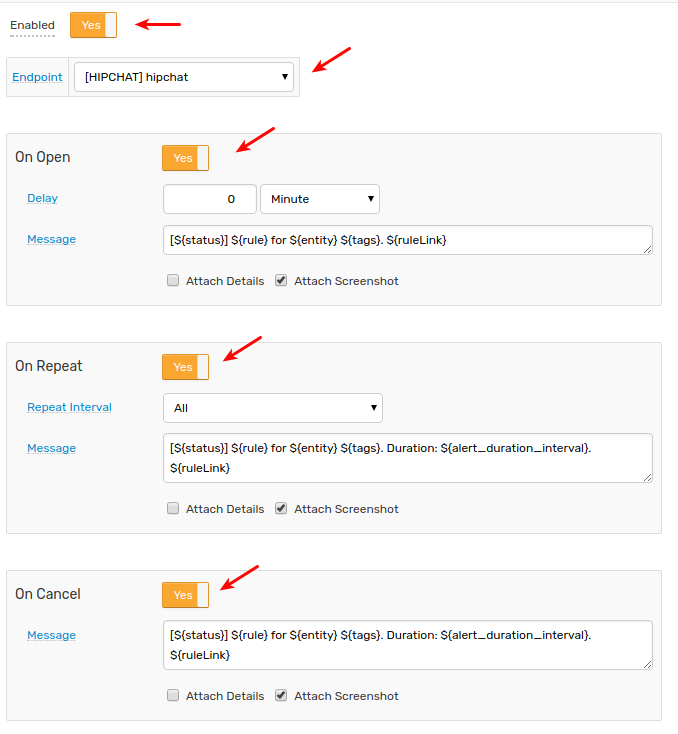
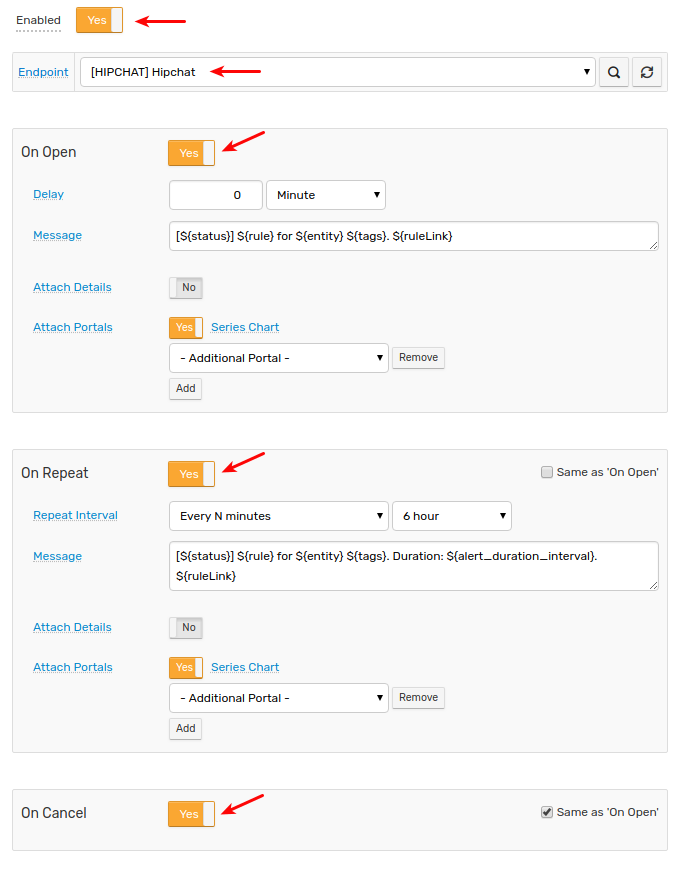
Notifications updates (#428)
* telegram.md

* slack.md

* discord.md

* hipchat.md

* eng fix

* eng fix

diff --git a/rule-engine/notifications/telegram.md b/rule-engine/notifications/telegram.md
@@ -116,25 +116,22 @@ Lookup the chat id as described below and copy the chat id for future reference.
 ## Configure Web Notification in ATSD
 
 * Open **Alerts > Web Notifications** page.
-* Click on an existing `TELEGRAM` template, or click the **Create** button below and switch the form to `TELEGRAM` type.
-* Enter the `BOT_TOKEN` value into the `bot_id` field.
-* Enter the chat id into the `chat_id` field.
+* Click on an existing `TELEGRAM` template, or click the **Create** button below and select the `TELEGRAM` type.
+* Specify the unique `Name` of the notification.
+
+    ![](images/telegram_2.png)
+    
+* Enter the `BOT_TOKEN` value into the `Bot ID` field.
+* Enter the chat id into the `Chat ID` field.
+* Select **Test Portal** to verify screenshot delivery.
 
   ![](images/telegram_config.png)
 
-* Click **Test**.
+* Click **Test**.    
 
-   ![](images/test_message.png)
+  ![](images/telegram_1.png)
 
-* Select **Test Portal** to verify screenshot delivery.
-
-   ![](images/new_test_portal.png)   
-
-* Click **Send Screenshot**.
-
-   ![](images/send_screen.png)
-
-* If tests are passing OK, check **Enable**, click **Save**.
+* If test is passing OK, check **Enable**, click **Save**.
 
 ## Proxy Settings
 
@@ -158,6 +155,15 @@ NGINX API Gateway Path for Telegram:
 |Parse Mode|Send [Markdown](https://core.telegram.org/bots/api#markdown-style) or [HTML](https://core.telegram.org/bots/api#html-style) if you want show bold, italic, fixed-width text or inline URLs in your message.|
 |Disable Notifications|Sends the message silently. Users will receive a notification with no sound.|
 |Disable Web Page Preview|Disables link previews for links in this message.|
+|Details Table Format|The default format for the alerts detail table.|
+|Add Links to Portals|Send a follow up message with chart links after each message containing portal screenshots.|
+|Receive Updates|Poll for messages addressed to the bot user and process them in ATSD as messages.|
+
+## Reacting to Bot Messages
+
+The bot account can be used both to deliver notifications to end users, as well as to react to messages addressed to the bot itself. 
+
+In order to receive incoming messages, configure an [outgoing webhook](outgoing-webhook-telegram.md) or set **Receive Updates** setting to 'yes'. The [webhook](outgoing-webhook-telegram.md) integration requires ATSD server to be reachable from Telegram API servers.
 
 ## Testing Notification Rule
 

diff --git a/rule-engine/notifications/hipchat.md b/rule-engine/notifications/hipchat.md
@@ -83,25 +83,23 @@ In addition to roomId, you can use room name, for example `test-axibase`, when s
 ## Create HipChat Notification in ATSD
 
 * Open the **Alerts > Web Notifications** page.
-* Click on an existing `HIPCHAT` template, or click the **Create** button and switch the type to `HIPCHAT`.
+* Click on an existing `HIPCHAT` template, or click the **Create** button and select the `HIPCHAT`type.
+* Specify the unique `Name` of the notification.
+
+    ![](images/hipchat_1.png) 
+    
+* Specify the `Endpoint URL`.
 * Copy the `Token` from the HipChat Data Center client into the `Auth Token` field in the configuration form.
 * Copy the room Id or room name from the HipChat Data Center client into the `Room ID` field in the configuration form.
+* Select **Test Portal** to test the screenshot.
 
     ![](images/hipchat_settings.png)
 
 * Click **Test**.
 
-   ![](images/hipchat_hello_from_atsd.png)
+   ![](images/hipchat_2.png)
 
-* Select **Test Portal** to test the screenshot.
-
-   ![](images/new_test_portal.png)   
-
-* Click **Send Screenshot**.
-
-   ![](images/hipchat_send_screenshot.png)
-
-* If tests are OK, set the status to **Enabled** and click **Save**.  
+* If test is OK, set the status to **Enabled** and click **Save**.  
 
 ## Proxy Settings
 
@@ -117,6 +115,7 @@ If the HipChat API server is not directly accessible from the ATSD server, open 
 |Message|Message text to be sent. This field should be left blank so it can be customized in the rule editor.|
 |Message Format|Change how messages are formatted. See [message_format](https://www.hipchat.com/docs/apiv2/method/send_room_notification). To ensure that the references returned by the [link placeholders](../links.md#reference) and the [link functions](../functions-link.md#reference) are automatically inlined, specify `html` format.|
 |Notify|Notify users when bot sends a message.|
+|Add Links to Portals|Send a follow up message with chart links after each message containing portal screenshots.|
 
 ## Testing Notification
 
@@ -155,6 +154,6 @@ If the HipChat API server is not directly accessible from the ATSD server, open 
 
    ![](images/hipchat_test_1.png)
 
-* Critital alert:
+* Critical alert:
 
    ![](images/hipchat_test_2.png)

diff --git a/rule-engine/notifications/discord.md b/rule-engine/notifications/discord.md
@@ -61,25 +61,22 @@ To join a server, the user should click **Create new server**, select **Join** a
 ## Create Discord Notification in ATSD
 
 * Open the **Alerts > Web Notifications** page.
-* Click on an existing `DISCORD` template, or click the **Create** button and switch the type to `DISCORD`.
+* Click on an existing `DISCORD` template, or click the **Create** button and select the `DISCORD` type.
+* Specify the unique `Name` of the notification.
+
+    ![](images/discord_1.png) 
+    
 * Copy the `Webhook URL` from the Discord client into the `Webhook URL` field in the configuration form.
 * The `Webhook ID` and `Webhook Token` will be filled automatically when you finish editing the `Webhook URL` field.
+* Select **Test Portal** to test the screenshot.
 
     ![](images/discord_settings.png)
 
 * Click **Test**.
 
-   ![](images/discord_hello_from_atsd.png)
+   ![](images/discord_2.png)
 
-* Select **Test Portal** to test the screenshot.
-
-   ![](images/new_test_portal.png)   
-
-* Click **Send Screenshot**.
-
-   ![](images/discord_send_screenshot.png)
-
-* If tests are OK, set the status **Enabled** and click **Save**,  `Webhook URL` field will be cleared.  
+* If test is OK, set the status **Enabled** and click **Save**,  `Webhook URL` field will be cleared.  
 
 ## Proxy Settings
 

diff --git a/rule-engine/notifications/slack.md b/rule-engine/notifications/slack.md
@@ -72,24 +72,21 @@ In case of sending messages to a public or private channel you can just use the 
 ## Create Slack Notification in ATSD
 
 * Open **Alerts > Web Notifications** page.
-* Click on an existing `SLACK` template, or click the **Create** button below and switch the form to `SLACK` type.
+* Click on an existing `SLACK` template, or click the **Create** button below and select the `SLACK` type.
+* Specify the unique `Name` of the notification.
+
+    ![](images/slack_1.png) 
+
 * Specify the `Auth Token` and `Channels` parameters. See parameter descriptions below.
+* Select **Test Portal** to verify screenshot delivery.
 
     ![](images/slack-settings.png)   
 
 * Click **Test**
 
-   ![](images/slack_message_test.png)
+   ![](images/slack_2.png)
 
-* Select **Test Portal** to verify screenshot delivery.
-
-   ![](images/new_test_portal.png)   
-
-* Click **Send Screenshot**
-
-   ![](images/slack_send_screen.png)
-
-* If tests are passing OK, check **Enable**, click **Save**.
+* If test is passing OK, check **Enable**, click **Save**.
 
 ## Proxy Settings
 

diff --git a/rule-engine/variables.md b/rule-engine/variables.md
@@ -93,7 +93,7 @@ To access the n-th element, use square brackets and index starting with `0` for 
 
   ```java
   authors = split(tags.authors, ',')
-  authors.size() == 0 ? 'n/a' : authors[0]
+  authors.size() == 0 ? 'n/a' : authors.get(0)
   ```  
 
 ### map
